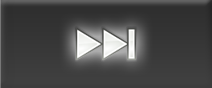
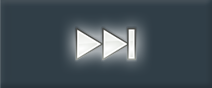
iOS: Added images for sliders, replaced images for play buttons. iOS: More theme adjustments.
Related to issue #405.

Changed region(s): [[0.0, 0.0, 1.0, 1.0]]

diff --git a/MPfm/MPfm.iOS/Classes/Controllers/PlayerViewController.cs b/MPfm/MPfm.iOS/Classes/Controllers/PlayerViewController.cs
@@ -78,8 +78,9 @@ namespace MPfm.iOS.Classes.Controllers
             viewPosition.BackgroundColor = GlobalTheme.BackgroundColor;
             viewMain.BackgroundColor = GlobalTheme.BackgroundColor;
 
-            //sliderPosition.SetThumbImage(UIImage.FromBundle("Images/Sliders/slider_ball"), UIControlState.Normal);
-            //sliderPosition.SetMinTrackImage(UIImage.FromBundle("Images/Sliders/slide"), UIControlState.Normal);
+            sliderPosition.SetThumbImage(UIImage.FromBundle("Images/Sliders/thumb"), UIControlState.Normal);
+            sliderPosition.SetMinTrackImage(UIImage.FromBundle("Images/Sliders/slider2").StretchableImage(8, 0), UIControlState.Normal);
+            sliderPosition.SetMaxTrackImage(UIImage.FromBundle("Images/Sliders/slider").StretchableImage(8, 0), UIControlState.Normal);
 
             // Reduce the song position slider size
             sliderPosition.Transform = CGAffineTransform.MakeScale(0.7f, 0.7f);
@@ -149,8 +150,9 @@ namespace MPfm.iOS.Classes.Controllers
 
             // Create MPVolumeView (only visible on physical iOS device)
             _volumeView = new MPVolumeView(new RectangleF(8, UIScreen.MainScreen.Bounds.Height - 44 - 52, UIScreen.MainScreen.Bounds.Width - 16, 46));
-            //volumeView.SetVolumeThumbImage(UIImage.FromBundle("Images/Sliders/slider_ball"), UIControlState.Normal);
-            //volumeView.SetMinimumVolumeSliderImage(UIImage.FromBundle("Images/Sliders/slide"), UIControlState.Normal);
+            _volumeView.SetVolumeThumbImage(UIImage.FromBundle("Images/Sliders/thumbbig"), UIControlState.Normal);
+            _volumeView.SetMinimumVolumeSliderImage(UIImage.FromBundle("Images/Sliders/slider2").StretchableImage(8, 0), UIControlState.Normal);
+            _volumeView.SetMaximumVolumeSliderImage(UIImage.FromBundle("Images/Sliders/slider").StretchableImage(8, 0), UIControlState.Normal);
             this.View.AddSubview(_volumeView);
 
             // Only display wave form on iPhone 5+

diff --git a/MPfm/MPfm.iOS/Classes/Delegates/AppDelegate.cs b/MPfm/MPfm.iOS/Classes/Delegates/AppDelegate.cs
@@ -76,7 +76,7 @@ namespace MPfm.iOS.Classes.Delegates
 
             UINavigationBar.Appearance.SetBackgroundImage(new UIImage(), UIBarMetrics.Default);
             UINavigationBar.Appearance.BackgroundColor = GlobalTheme.MainColor;
-            UITabBar.Appearance.SelectionIndicatorImage = new UIImage();
+            //UITabBar.Appearance.SelectionIndicatorImage = new UIImage();
 
             // Create window 
 			_window = new MPfmWindow(UIScreen.MainScreen.Bounds);
@@ -147,6 +147,7 @@ namespace MPfm.iOS.Classes.Delegates
                 navCtrl.TabBarItem.SetTitleTextAttributes(attr, UIControlState.Normal);
                 navCtrl.TabBarItem.SetTitleTextAttributes(attrSelected, UIControlState.Selected);
                 navCtrl.TabBarItem.Title = title;
+                //navCtrl.TabBarItem.SetFinishedImages(UIImage.FromBundle("Images/Tabs/tab_selected"), UIImage.FromBundle("Images/Tabs/tab"));
                 if(title.ToUpper() == "MORE")
                     navCtrl.TabBarItem.Image = UIImage.FromBundle("Images/Tabs/more");
                 else

diff --git a/MPfm/MPfm.iOS/Classes/Controllers/PlayerMetadataViewController.cs b/MPfm/MPfm.iOS/Classes/Controllers/PlayerMetadataViewController.cs
@@ -124,7 +124,7 @@ namespace MPfm.iOS
                             Artist = audioFile.ArtistName,
                             AlbumTitle = audioFile.AlbumTitle,
                             Title = audioFile.Title,
-                            Artwork = new MPMediaItemArtwork(image)
+                            Artwork = (image != null) ? new MPMediaItemArtwork(image) : null
                         };
                     }
                 }

diff --git a/MPfm/MPfm.iOS/Classes/Controls/MPfmTabBar.cs b/MPfm/MPfm.iOS/Classes/Controls/MPfmTabBar.cs
@@ -44,6 +44,7 @@ namespace MPfm.iOS.Classes.Controls
 
             var context = UIGraphics.GetCurrentContext();
             CoreGraphicsHelper.FillRect(context, rect, GlobalTheme.MainDarkColor.CGColor);
+            CoreGraphicsHelper.FillRect(context, new RectangleF(0, 0, 320, 2), GlobalTheme.MainLightColor.CGColor);
         }
     }
 }
